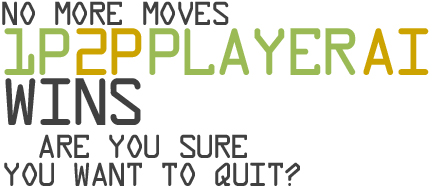
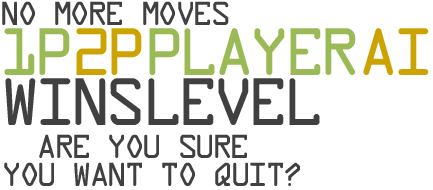
Add level dialog

Changed region(s): [[0.3303, 0.3947, 0.7506, 0.6579]]

diff --git a/title/Dialog.js b/title/Dialog.js
@@ -20,7 +20,8 @@ var dialog = (function() {
 		p2Wins		: 2,
 		aiWins		: 3,
 		playerWins	: 4,
-		quit		: 5
+		quit		: 5,
+		level		: 6
 	};
 	const params = [
 		[dialogTypes.unknown,	"unknown",		400, 240, 20, 20],
@@ -28,7 +29,8 @@ var dialog = (function() {
 		[dialogTypes.p2Wins,	"p2Wins",		400, 240, 450, 200],
 		[dialogTypes.aiWins,	"aiWins",		400, 240, 450, 200],
 		[dialogTypes.playerWins,"playerWins",	400, 240, 450, 200],
-		[dialogTypes.quit,		"quit",			400, 240, 340, 165]
+		[dialogTypes.quit,		"quit",			400, 240, 340, 165],
+		[dialogTypes.level,		"level",		400, 240, 370, 180]
 	];
 	var param;
 
@@ -68,10 +70,10 @@ var dialog = (function() {
 		dialogContext = dialogCanvas.getContext("2d");
 	}
 
-	function popup(type) {
+	function popup(type, options) {
 		x = 400; y = 240; w = 20; h = 20; a = 0;
 		da = 0.5/maxDialogT;
-		prepareDialog(type);
+		prepareDialog(type, options);
 		dialogState = 1;
 		dialogT = 0;
 	}
@@ -207,7 +209,7 @@ var dialog = (function() {
 //
 ///////////////////////////////////////////////////////////////////////////////
 
-	function prepareDialog(type) {
+	function prepareDialog(type, options) {
 		param = getType(type);
 		iconSlot1 = icon.none;
 		iconSlot2 = icon.none;
@@ -266,6 +268,20 @@ var dialog = (function() {
 			dialogContext.drawImage(img.dialog, 0, 130, 300, 60, param[4]/2-150, 15, 300, 60);
 			iconSlot1 = icon.title;
 			iconSlot2 = icon.cancel;
+			break;
+		case dialogTypes.level:
+			var textW;
+			if(options >= 100) {
+				textW = 35*3;
+			} else if(options >= 10) {
+				textW = 35*2;
+			} else {
+				textW = 35;
+			}
+			dialogContext.drawImage(img.dialog, 144, 75, 180, 50, param[4]/2-(215+textW)/2, 30, 180, 50);
+			ui.drawNumbers(dialogContext, options, param[4]/2-(215+textW)/2+215, 28, 1.0);
+			iconSlot1 = icon.none;
+			iconSlot2 = icon.next;
 			break;
 		}
 

diff --git a/title/GameLogic.js b/title/GameLogic.js
@@ -9,14 +9,15 @@ var gameLogic = (function() {
 	const gameStates = {
 		unknown		: -1,
 		reset		: 0,
-		animating	: 1,
-		selecting	: 2,
-		colorSelect	: 3,
-		aiSelect	: 4,
-		switching	: 5,
-		resulting	: 6,
-		quit		: 7,
-		leaving		: 8
+		level		: 1,
+		animating	: 2,
+		selecting	: 3,
+		colorSelect	: 4,
+		aiSelect	: 5,
+		switching	: 6,
+		resulting	: 7,
+		quit		: 8,
+		leaving		: 9
 	};
 	var state;
 	var nextGameState;
@@ -89,8 +90,8 @@ var gameLogic = (function() {
 		warp = 0;
 
 		state = gameStates.animating;
-		if(playerCount == 1 && currentPlayer == 1) {
-			nextGameState = gameStates.aiSelect;
+		if(playerCount == 1) {
+			nextGameState = gameStates.level;
 		} else {
 			nextGameState = gameStates.selecting;
 		}
@@ -125,6 +126,10 @@ var gameLogic = (function() {
 		switch(state) {
 		case gameStates.reset:
 			reset(playerCount, level+1);
+			break;
+
+		case gameStates.level:
+			dialog.popup("level", level);
 			break;
 
 		case gameStates.selecting:
@@ -188,6 +193,10 @@ var gameLogic = (function() {
 		mouseY = y;
 
 		switch(state) {
+		case gameStates.level:
+			dialog.checkPassSlot2(x, y, 0);
+			break;
+
 		case gameStates.selecting:
 			ui.checkMousePassSound(x, y, currentPlayer);
 			ui.checkMousePassTitle(x, y, currentPlayer);
@@ -222,6 +231,18 @@ var gameLogic = (function() {
 		var res;
 
 		switch(state) {
+		case gameStates.level:
+			if(dialog.checkPassSlot2(mouseX, mouseY, 0) >= 0) {
+				dialog.close();
+				state = gameStates.animating;
+				if(level%2 == 1) {  
+					nextGameState = gameStates.selecting;
+				} else {
+					nextGameState = gameStates.aiSelect;
+				}
+			}
+			break;
+
 		case gameStates.selecting:
 			if(ui.checkMousePassSound(mouseX, mouseY, currentPlayer) >= 0) {
 				soundon = (soundon+1)%2;

diff --git a/title/ColoringProblem.js b/title/ColoringProblem.js
@@ -38,6 +38,7 @@ var coloringProblem = (function() {
 	var imgMisc = new Image();
 	var imgDialog = new Image();
 	var imgTitle = new Image();
+	var imgNumbers = new Image();
 
 ///////////////////////////////////////////////////////////////////////////////
 //
@@ -246,7 +247,7 @@ var coloringProblem = (function() {
 ///////////////////////////////////////////////////////////////////////////////
 
 	// Loader counters
-	var itemsToLoad = 25;
+	var itemsToLoad = 26;
 	var loadCount = 0;
 
 	function initLoader() {
@@ -294,6 +295,8 @@ var coloringProblem = (function() {
 		imgDialog.onload = eventItemLoaded;
 		imgTitle.src = "Title.png";
 		imgTitle.onload = eventItemLoaded;
+		imgNumbers.src = "Numbers.png";
+		imgNumbers.onload = eventItemLoaded;
 
 		// Pass resources to loader
 		loader.init(env, {
@@ -330,7 +333,8 @@ var coloringProblem = (function() {
 			title : imgTitle,
 			beams : imgBeams,
 			sparks : imgSparks,
-			misc : imgMisc
+			misc : imgMisc,
+			numbers : imgNumbers
 		}, backContext);
 
 		dialog.init(env, {

diff --git a/title/UI.js b/title/UI.js
@@ -855,6 +855,22 @@ var ui = (function() {
 
 ///////////////////////////////////////////////////////////////////////////////
 //
+// General utilities
+//
+///////////////////////////////////////////////////////////////////////////////
+
+	function drawNumbers(targetCanvas, numbers, x, y, scale) {
+		const w = 35, h = 54;
+		var str = numbers.toString(), tmp;
+		for(var i = 0; i < str.length; i++) {
+			tmp = Number(str[i]);
+			console.log(tmp);
+			targetCanvas.drawImage(img.numbers, tmp*w, 0, w, h, x+(i*w*scale), y, w*scale, h*scale);
+		}
+	}
+
+///////////////////////////////////////////////////////////////////////////////
+//
 // Setup public access
 //
 ///////////////////////////////////////////////////////////////////////////////
@@ -909,6 +925,8 @@ var ui = (function() {
 
 		checkMousePassSound : checkMousePassSound,
 		checkMousePassTitle : checkMousePassTitle,
-		setSoundon : setSoundon
+		setSoundon : setSoundon,
+
+		drawNumbers : drawNumbers
 	};
 })();
